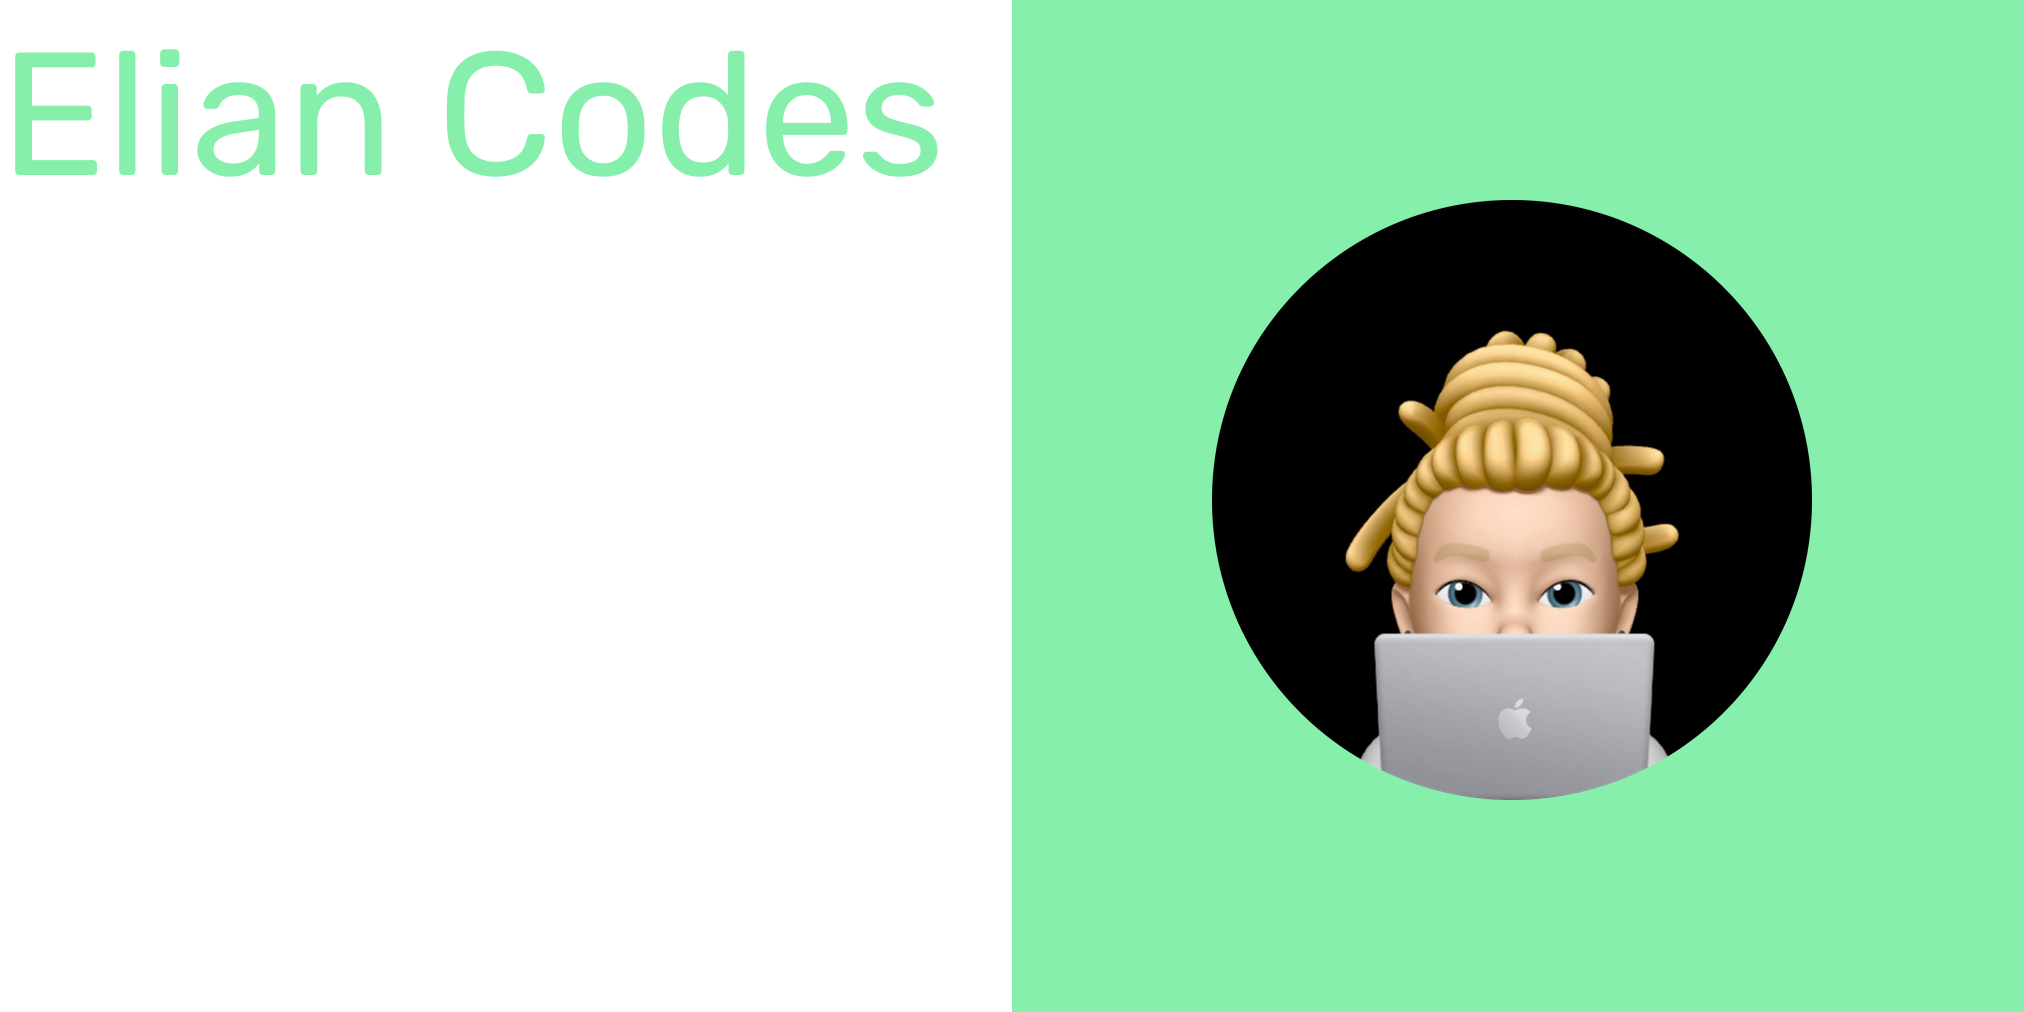
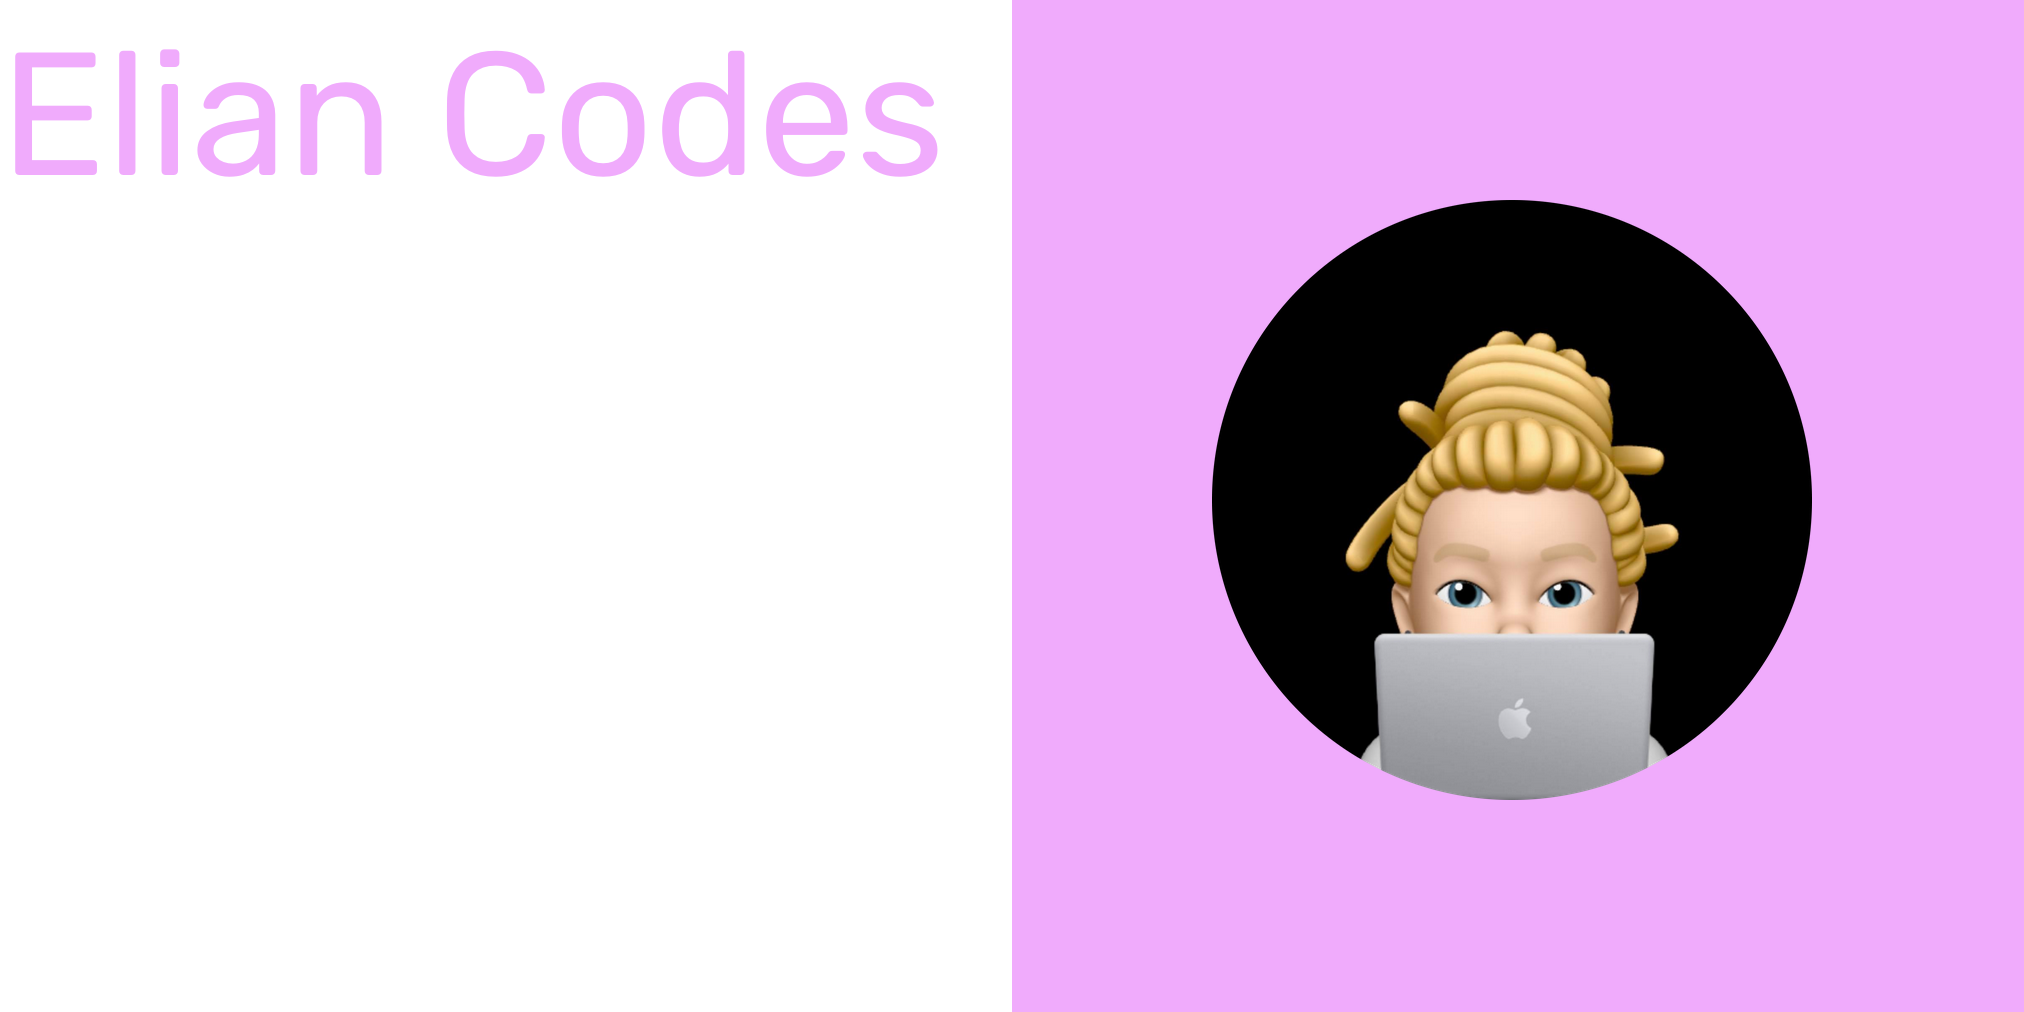
♻ add better randomiser

diff --git a/main.go b/main.go
@@ -9,6 +9,7 @@ import (
 	"io/ioutil"
 	"math/rand"
 	"os"
+	"time"
 
 	"github.com/golang/freetype"
 	"github.com/nfnt/resize"
@@ -17,6 +18,11 @@ import (
 type size struct {
 	width  int
 	height int
+}
+
+type randomColor struct {
+	name  string
+	color color.RGBA
 }
 
 type socialImage struct {
@@ -31,17 +37,18 @@ func main() {
 	generateImage("test", defaultSocialImageSize)
 }
 
-func getRandomColor() color.Color {
-	// Colors are defined by Red, Green, Blue, Alpha uint8 values.
-	availableColors := [5]color.Color{
-		color.RGBA{253, 186, 116, 0xff}, // ElianCodes Orange
-		color.RGBA{134, 239, 172, 0xff}, // ElianCodes Green
-		color.RGBA{147, 197, 253, 0xff}, // ElianCodes Blue
-		color.RGBA{252, 165, 165, 0xff}, // ElianCodes Red
-		color.RGBA{240, 171, 252, 0xff}, // ElianCodes Purple
+func getRandomColor() randomColor {
+	availableColors := [5]randomColor{
+		{name: "Orange", color: color.RGBA{253, 186, 116, 0xff}},
+		{name: "Green", color: color.RGBA{134, 239, 172, 0xff}},
+		{name: "Blue", color: color.RGBA{147, 197, 253, 0xff}},
+		{name: "Red", color: color.RGBA{252, 165, 165, 0xff}},
+		{name: "Purple", color: color.RGBA{240, 171, 252, 0xff}},
 	}
-	fmt.Println("The color is picked!")
-	return availableColors[rand.Intn(len(availableColors))]
+	rand.Seed(time.Now().UnixNano())
+	var pickedColor randomColor = availableColors[rand.Intn(len(availableColors))]
+	fmt.Println("The color is picked, it is " + pickedColor.name + "!")
+	return pickedColor
 }
 
 func generateImage(imageName string, size size) {
@@ -50,7 +57,7 @@ func generateImage(imageName string, size size) {
 	// initialize a new (empty) image
 	img := image.NewRGBA(image.Rect(0, 0, size.width, size.height))
 
-	usedColor := getRandomColor()
+	usedColor := getRandomColor().color
 	uniformColor := image.NewUniform(usedColor)
 
 	var socialImg socialImage = socialImage{size: size, name: imageName, baseColor: usedColor, src: img}
